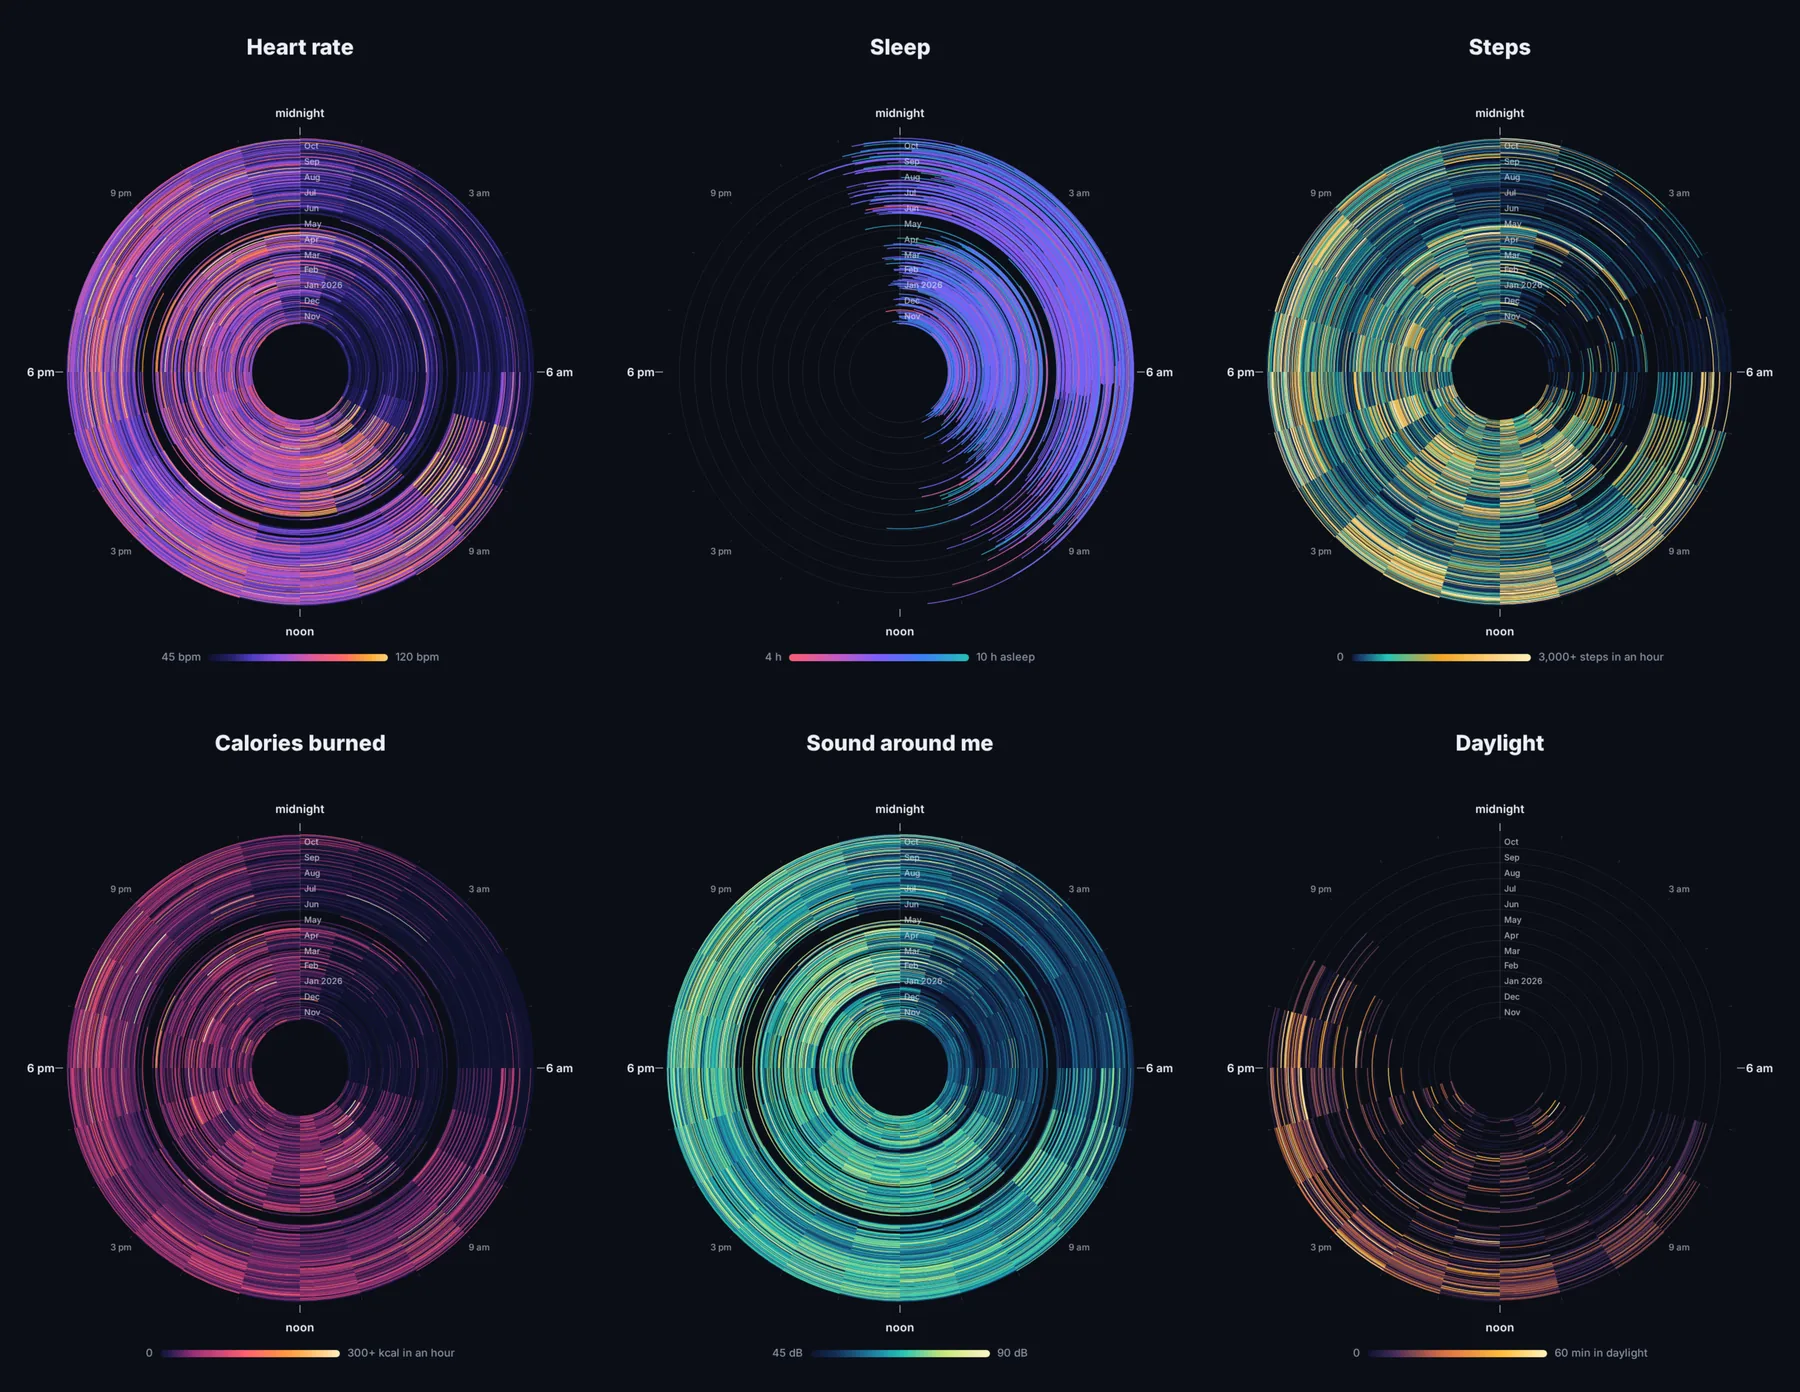
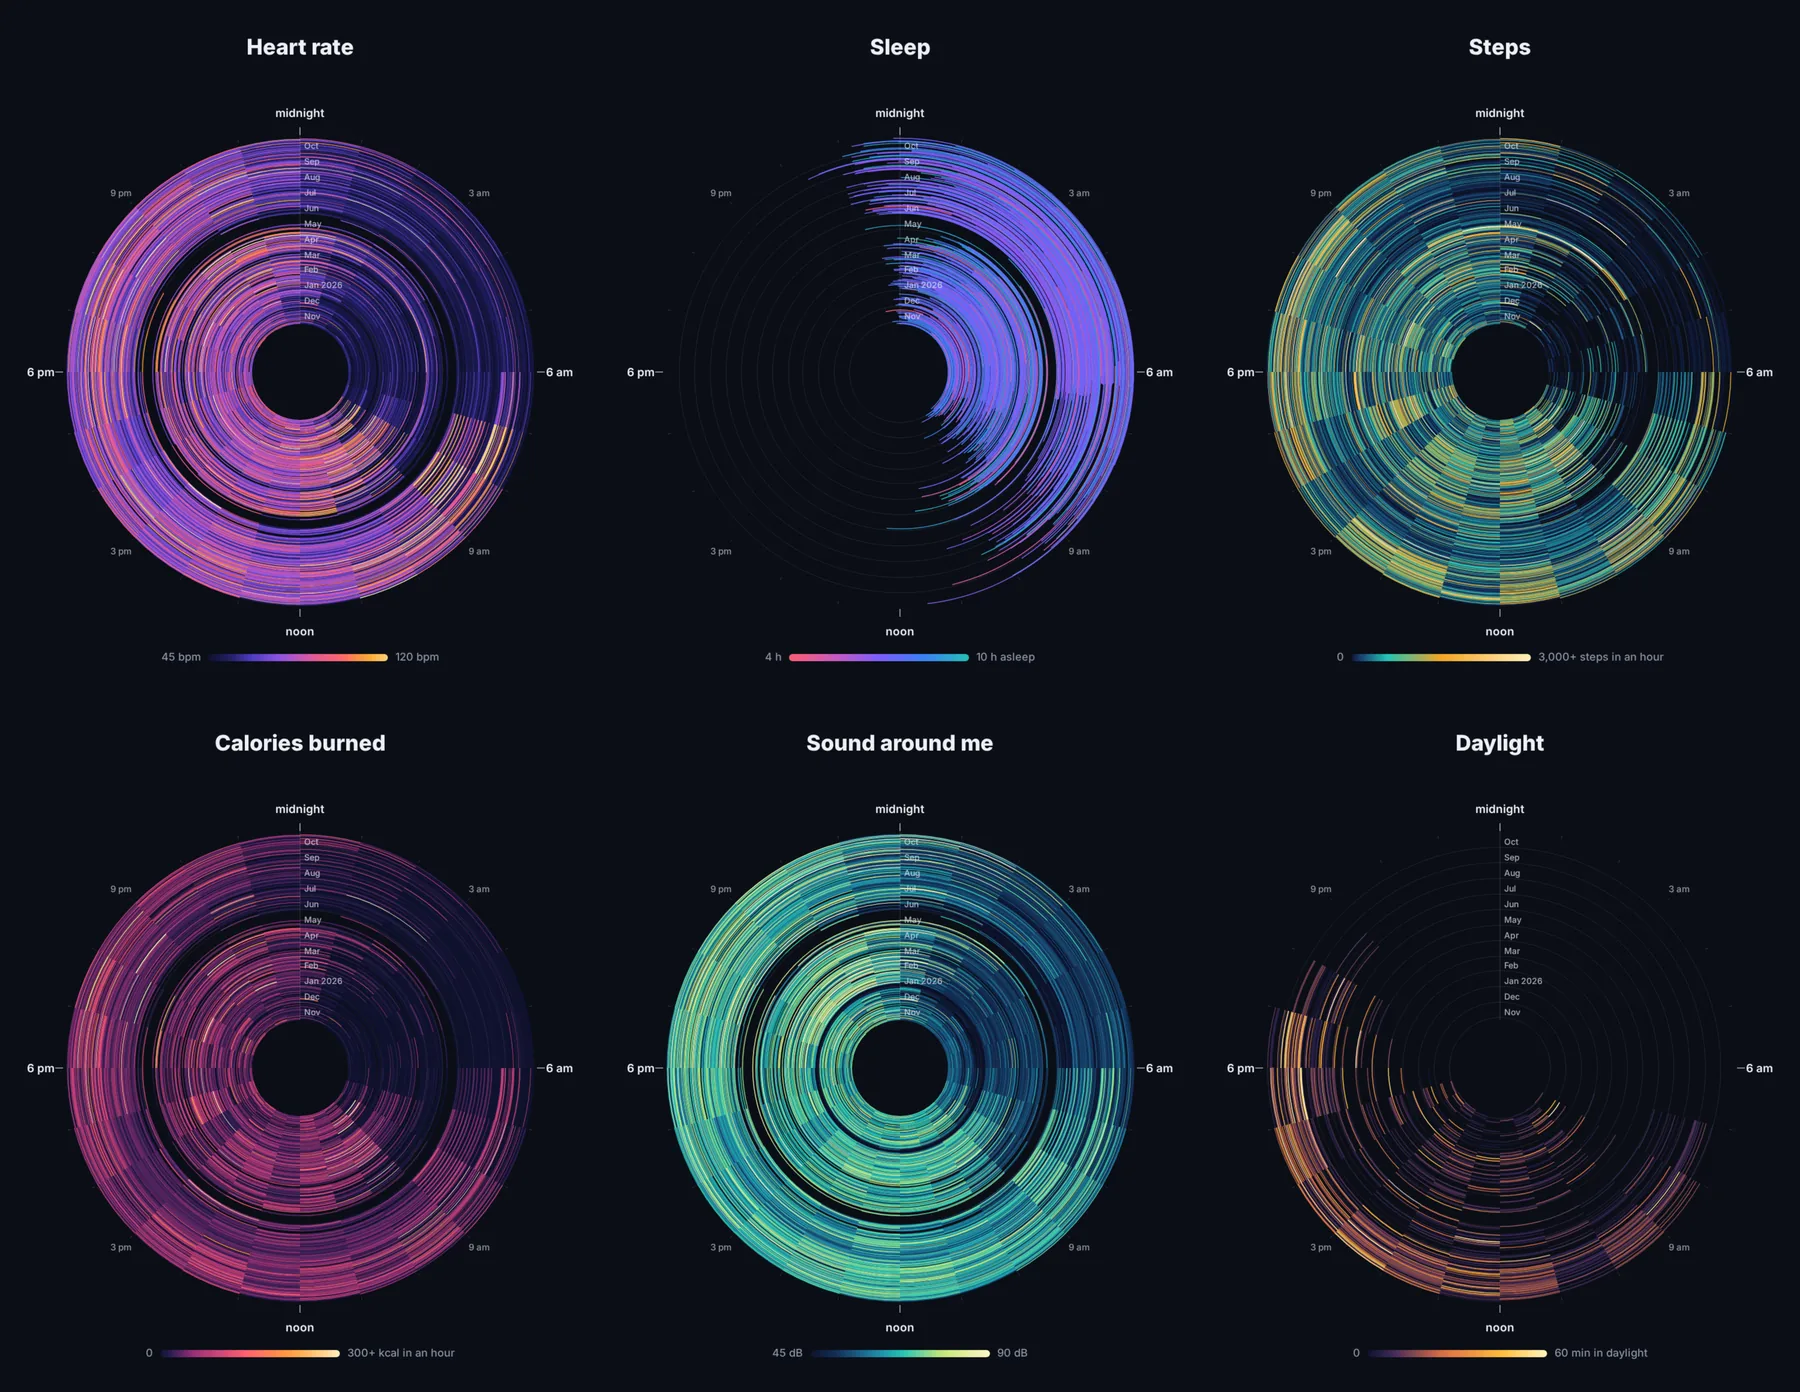
A Year in Rings: steps and calories take the higher device per hour, not the sum

Changed region(s): [[0.6844, 0.0927, 0.9644, 0.4325]]

diff --git a/projects/year-in-rings/rings.py b/projects/year-in-rings/rings.py
@@ -70,9 +70,14 @@ def pull():
 
     rings = {}
     for name, (metric, fn) in HOURLY.items():
+        # A phone and a watch both count steps and calories, and Apple keeps the higher
+        # one per interval rather than adding them. Same here: per device, then the max.
+        agg = ('|> group(columns: ["source"]) |> aggregateWindow(every: 1h, fn: sum, createEmpty: false)\n'
+               '  |> group(columns: ["_time"]) |> max() |> group()' if fn == "sum"
+               else '|> group() |> aggregateWindow(every: 1h, fn: mean, createEmpty: false)')
         rows = query(f'''from(bucket: "health") |> {rng}
   |> filter(fn: (r) => r._measurement == "sample" and r.metric == "{metric}" and r._field == "value")
-  |> group() |> aggregateWindow(every: 1h, fn: {fn}, createEmpty: false)''')
+  {agg} |> keep(columns: ["_time", "_value"])''')
         grid = [[None] * 24 for _ in range(a.days)]
         for r in rows:
             d, t = local(r["_time"], 1)  # a window is stamped with its end, so step back into it
